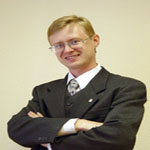
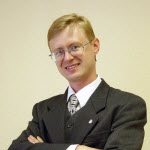
AlexeiBarantsev: Updating about/contributors.html and the photo

diff --git a/src/main/webapp/about/contributors.html b/src/main/webapp/about/contributors.html
@@ -51,10 +51,16 @@
     <div class="contributor">
       <h3>
         <img src="/images/people/alexei-barantsev.jpg" class="profile" alt=
-        "Image"><a href="http://">Baranstev, Alexei</a>
+        "Image"><a href="http://software-testing.ru/about/323-chief">Barantsev, Alexei</a>
       </h3>
       <ul>
-        <li>Organization: <a href="http://"></a>
+        <li>Commiter on Selenium 2</a>.
+        </li>
+        <li>Organization: <a href="http://software-testing.ru/">Software-Testing.Ru</a>
+        </li>
+        <li>Involved since 2011
+        </li>
+        <li>Favorite method: Actions.perform()
         </li>
       </ul>
     </div>
